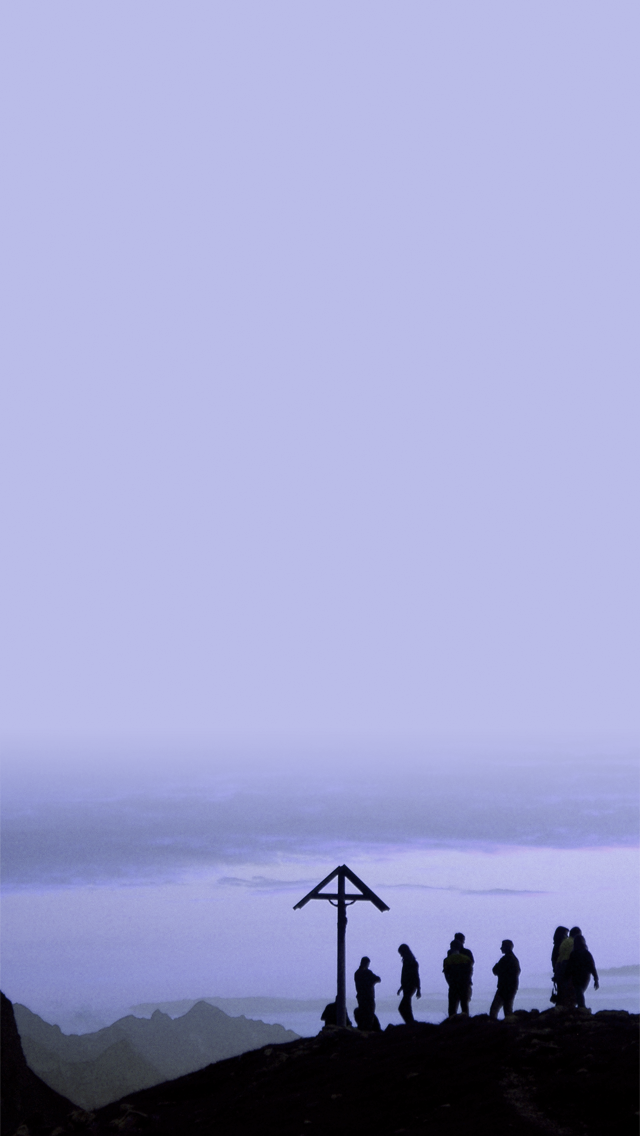
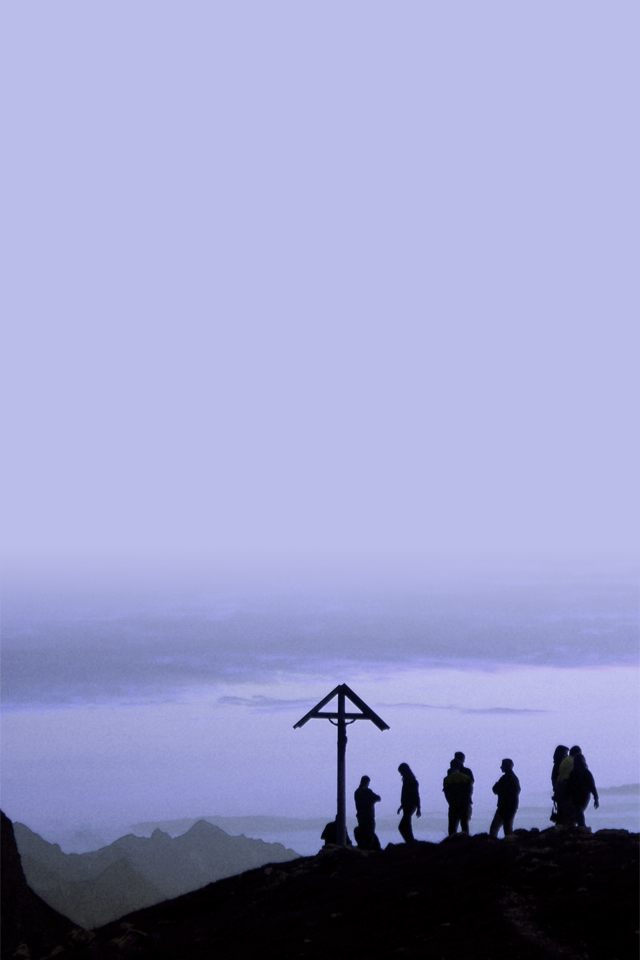
Hintergrundbilder verändert. Skalierung für 4“ Display in Code.

Changed region(s): [[0.0, 0.5938, 1.0, 0.9688], [0.125, 0.9688, 0.1562, 1.0]]

diff --git a/FastenKalender/ESPageViewController.m b/FastenKalender/ESPageViewController.m
@@ -19,7 +19,7 @@
 @implementation ESPageViewController
 
 @synthesize days = _days;
-@synthesize currentDay = _currentDay;
+@synthesize currentPage = _currentPage;
 
 - (void)viewDidLoad
 {
@@ -27,13 +27,14 @@
 	// Do any additional setup after loading the view.
 	
 	self.days = [self createDayArray];
-	self.currentDay = self.days.count - 1;
+	self.currentPage = self.days.count;
 	
 	self.dataSource = self;
+	self.delegate = self;
 	
-	[self setViewControllers:@[[self viewControllerForPageNumber:self.currentDay]]
+	[self setViewControllers:@[[self viewControllerForPageNumber:self.currentPage - 1]]
 				   direction:UIPageViewControllerNavigationDirectionForward
-					animated:NO
+					animated:YES
 				  completion:nil];
 	
 	UILocalNotification *notification = [[UILocalNotification alloc] init];
@@ -71,7 +72,6 @@
 	}
 }
 
-
 - (void)didReceiveMemoryWarning
 {
     [super didReceiveMemoryWarning];
@@ -103,7 +103,7 @@
 	
 	ESDay *day2 = [ESDay new];
 	day2.name = @"";
-	day2.headline = @"Weckruf von ... Gott?";
+	day2.headline = @"Weckruf von … Gott?…";
 	day2.number = startNumber++;
 	startDay = [startDay dateByAddingTimeInterval:60*60*24*1];
 	day2.date = startDay;
@@ -124,7 +124,7 @@
 	
 	ESDay *day5 = [ESDay new];
 	day5.name = @"Erster Fastensonntag";
-	day5.headline = @"Mir kann an keinem Ort der Welt etwas fehlen";
+	day5.headline = @"Mir kann an keinem Ort der Welt etwas fehlen!";
 	day5.number = startNumber++;
 	startDay = [startDay dateByAddingTimeInterval:60*60*24*1];
 	day5.date = startDay;
@@ -194,7 +194,7 @@
 	
 	ESDay *day15 = [ESDay new];
 	day15.name = @"Hl. Josef";
-	day15.headline = @"Ich bin getauft";
+	day15.headline = @"Ich bin getauft…";
 	day15.number = startNumber++;
 	startDay = [startDay dateByAddingTimeInterval:60*60*24*1];
 	day15.date = startDay;
@@ -383,49 +383,49 @@
 	
 	ESDay *day42 = [ESDay new];
 	day42.name = @"";
-	day42.headline = @"";
+	day42.headline = @"Leben für die Ewigkeit";
 	day42.number = startNumber++;
 	startDay = [startDay dateByAddingTimeInterval:60*60*24*1];
 	day42.date = startDay;
 	
 	ESDay *day43 = [ESDay new];
 	day43.name = @"";
-	day43.headline = @"";
+	day43.headline = @"Hingabe an den Willen Gottes";
 	day43.number = startNumber++;
 	startDay = [startDay dateByAddingTimeInterval:60*60*24*1];
 	day43.date = startDay;
 	
 	ESDay *day44 = [ESDay new];
 	day44.name = @"Gründonnerstag";
-	day44.headline = @"Im Kreuz ist Heil";
+	day44.headline = @"Kraft der Ölbergstunde";
 	day44.number = startNumber++;
 	startDay = [startDay dateByAddingTimeInterval:60*60*24*1];
 	day44.date = startDay;
 	
 	ESDay *day45 = [ESDay new];
 	day45.name = @"Karfreitag";
-	day45.headline = @"Gedenke, Herr";
+	day45.headline = @"Im Kreuz ist Leben";
 	day45.number = startNumber++;
 	startDay = [startDay dateByAddingTimeInterval:60*60*24*1];
 	day45.date = startDay;
 	
 	ESDay *day46 = [ESDay new];
 	day46.name = @"Karsamstag";
-	day46.headline = @"weil ich mein Leben hingebe";
+	day46.headline = @"Neues Leben nach und nach";
 	day46.number = startNumber++;
 	startDay = [startDay dateByAddingTimeInterval:60*60*24*1];
 	day46.date = startDay;
 	
 	ESDay *day47 = [ESDay new];
 	day47.name = @"Ostersonntag";
-	day47.headline = @"Wie wunderbar ist für mich dieses Wissen";
+	day47.headline = @"Strahlend jubelt die Natur dem Auferstandenen";
 	day47.number = startNumber++;
 	startDay = [startDay dateByAddingTimeInterval:60*60*24*1];
 	day47.date = startDay;
 	
 	ESDay *day48 = [ESDay new];
 	day48.name = @"Ostermontag";
-	day48.headline = @"";
+	day48.headline = @"…und bliebe unser Herz brennend davon!";
 	day48.number = startNumber++;
 	startDay = [startDay dateByAddingTimeInterval:60*60*24*1];
 	day48.date = startDay;

diff --git a/FastenKalender/ESPageContainerViewController.m b/FastenKalender/ESPageContainerViewController.m
@@ -1,0 +1,73 @@
+//
+//  ESPageContainerViewController.m
+//  KarmelExerzitien
+//
+//  Created by Christoph Wottawa on 24.02.14.
+//  Copyright (c) 2014 Christoph Wottawa. All rights reserved.
+//
+
+#import "ESPageContainerViewController.h"
+#import "ESPageViewController.h"
+
+@interface ESPageContainerViewController ()
+
+@property (nonatomic, weak) ESPageViewController *pageView;
+
+@end
+
+@implementation ESPageContainerViewController
+
+
+@synthesize backgroundImageView = _backgroundImageView;
+@synthesize pageView = _pageView;
+
+- (void)viewDidLoad
+{
+    [super viewDidLoad];
+    // Do any additional setup after loading the view.
+	//setup buttons:
+	
+	if([[UIScreen mainScreen]bounds].size.height == 568) {
+		self.backgroundImageView.image = [UIImage imageNamed:@"Background4"];
+	} else {
+		self.backgroundImageView.image = [UIImage imageNamed:@"Background"];
+	}
+	
+	if(floor(NSFoundationVersionNumber) <= NSFoundationVersionNumber_iOS_6_1) {
+		if([[UIScreen mainScreen]bounds].size.height == 568) {
+			self.backgroundImageView.image = [UIImage imageNamed:@"Background4S"];
+		} else {
+			self.backgroundImageView.image = [UIImage imageNamed:@"BackgroundS"];
+		}
+	}
+	
+}
+
+/*
+- (IBAction)nextPage {
+	if(self.pageView) {
+		[self.pageView showNextPage];
+	}
+}
+
+- (IBAction)previousPage {
+	if(self.pageView) {
+		[self.pageView showPreviousPage];
+	}
+}
+*/
+
+- (void)didReceiveMemoryWarning
+{
+    [super didReceiveMemoryWarning];
+    // Dispose of any resources that can be recreated.
+}
+
+-(void)prepareForSegue:(UIStoryboardSegue *)segue sender:(id)sender
+{
+	if([segue.identifier isEqualToString:@"EmbedPages"]) {
+		self.pageView = segue.destinationViewController;
+	}
+}
+
+@end

diff --git a/FastenKalender/ESPageViewController.h b/FastenKalender/ESPageViewController.h
@@ -8,9 +8,10 @@
 
 #import <UIKit/UIKit.h>
 
-@interface ESPageViewController : UIPageViewController<UIPageViewControllerDataSource>
+@interface ESPageViewController : UIPageViewController<UIPageViewControllerDataSource, UIPageViewControllerDelegate>
 
 @property (nonatomic, strong) NSArray *days;
-@property (nonatomic) int currentDay;
+@property (nonatomic) int currentPage;
+
 
 @end

diff --git a/FastenKalender/ESPageContainerViewController.h b/FastenKalender/ESPageContainerViewController.h
@@ -1,0 +1,15 @@
+//
+//  ESPageContainerViewController.h
+//  KarmelExerzitien
+//
+//  Created by Christoph Wottawa on 24.02.14.
+//  Copyright (c) 2014 Christoph Wottawa. All rights reserved.
+//
+
+#import <UIKit/UIKit.h>
+
+@interface ESPageContainerViewController : UIViewController
+
+@property (nonatomic, weak) IBOutlet UIImageView *backgroundImageView;
+
+@end
